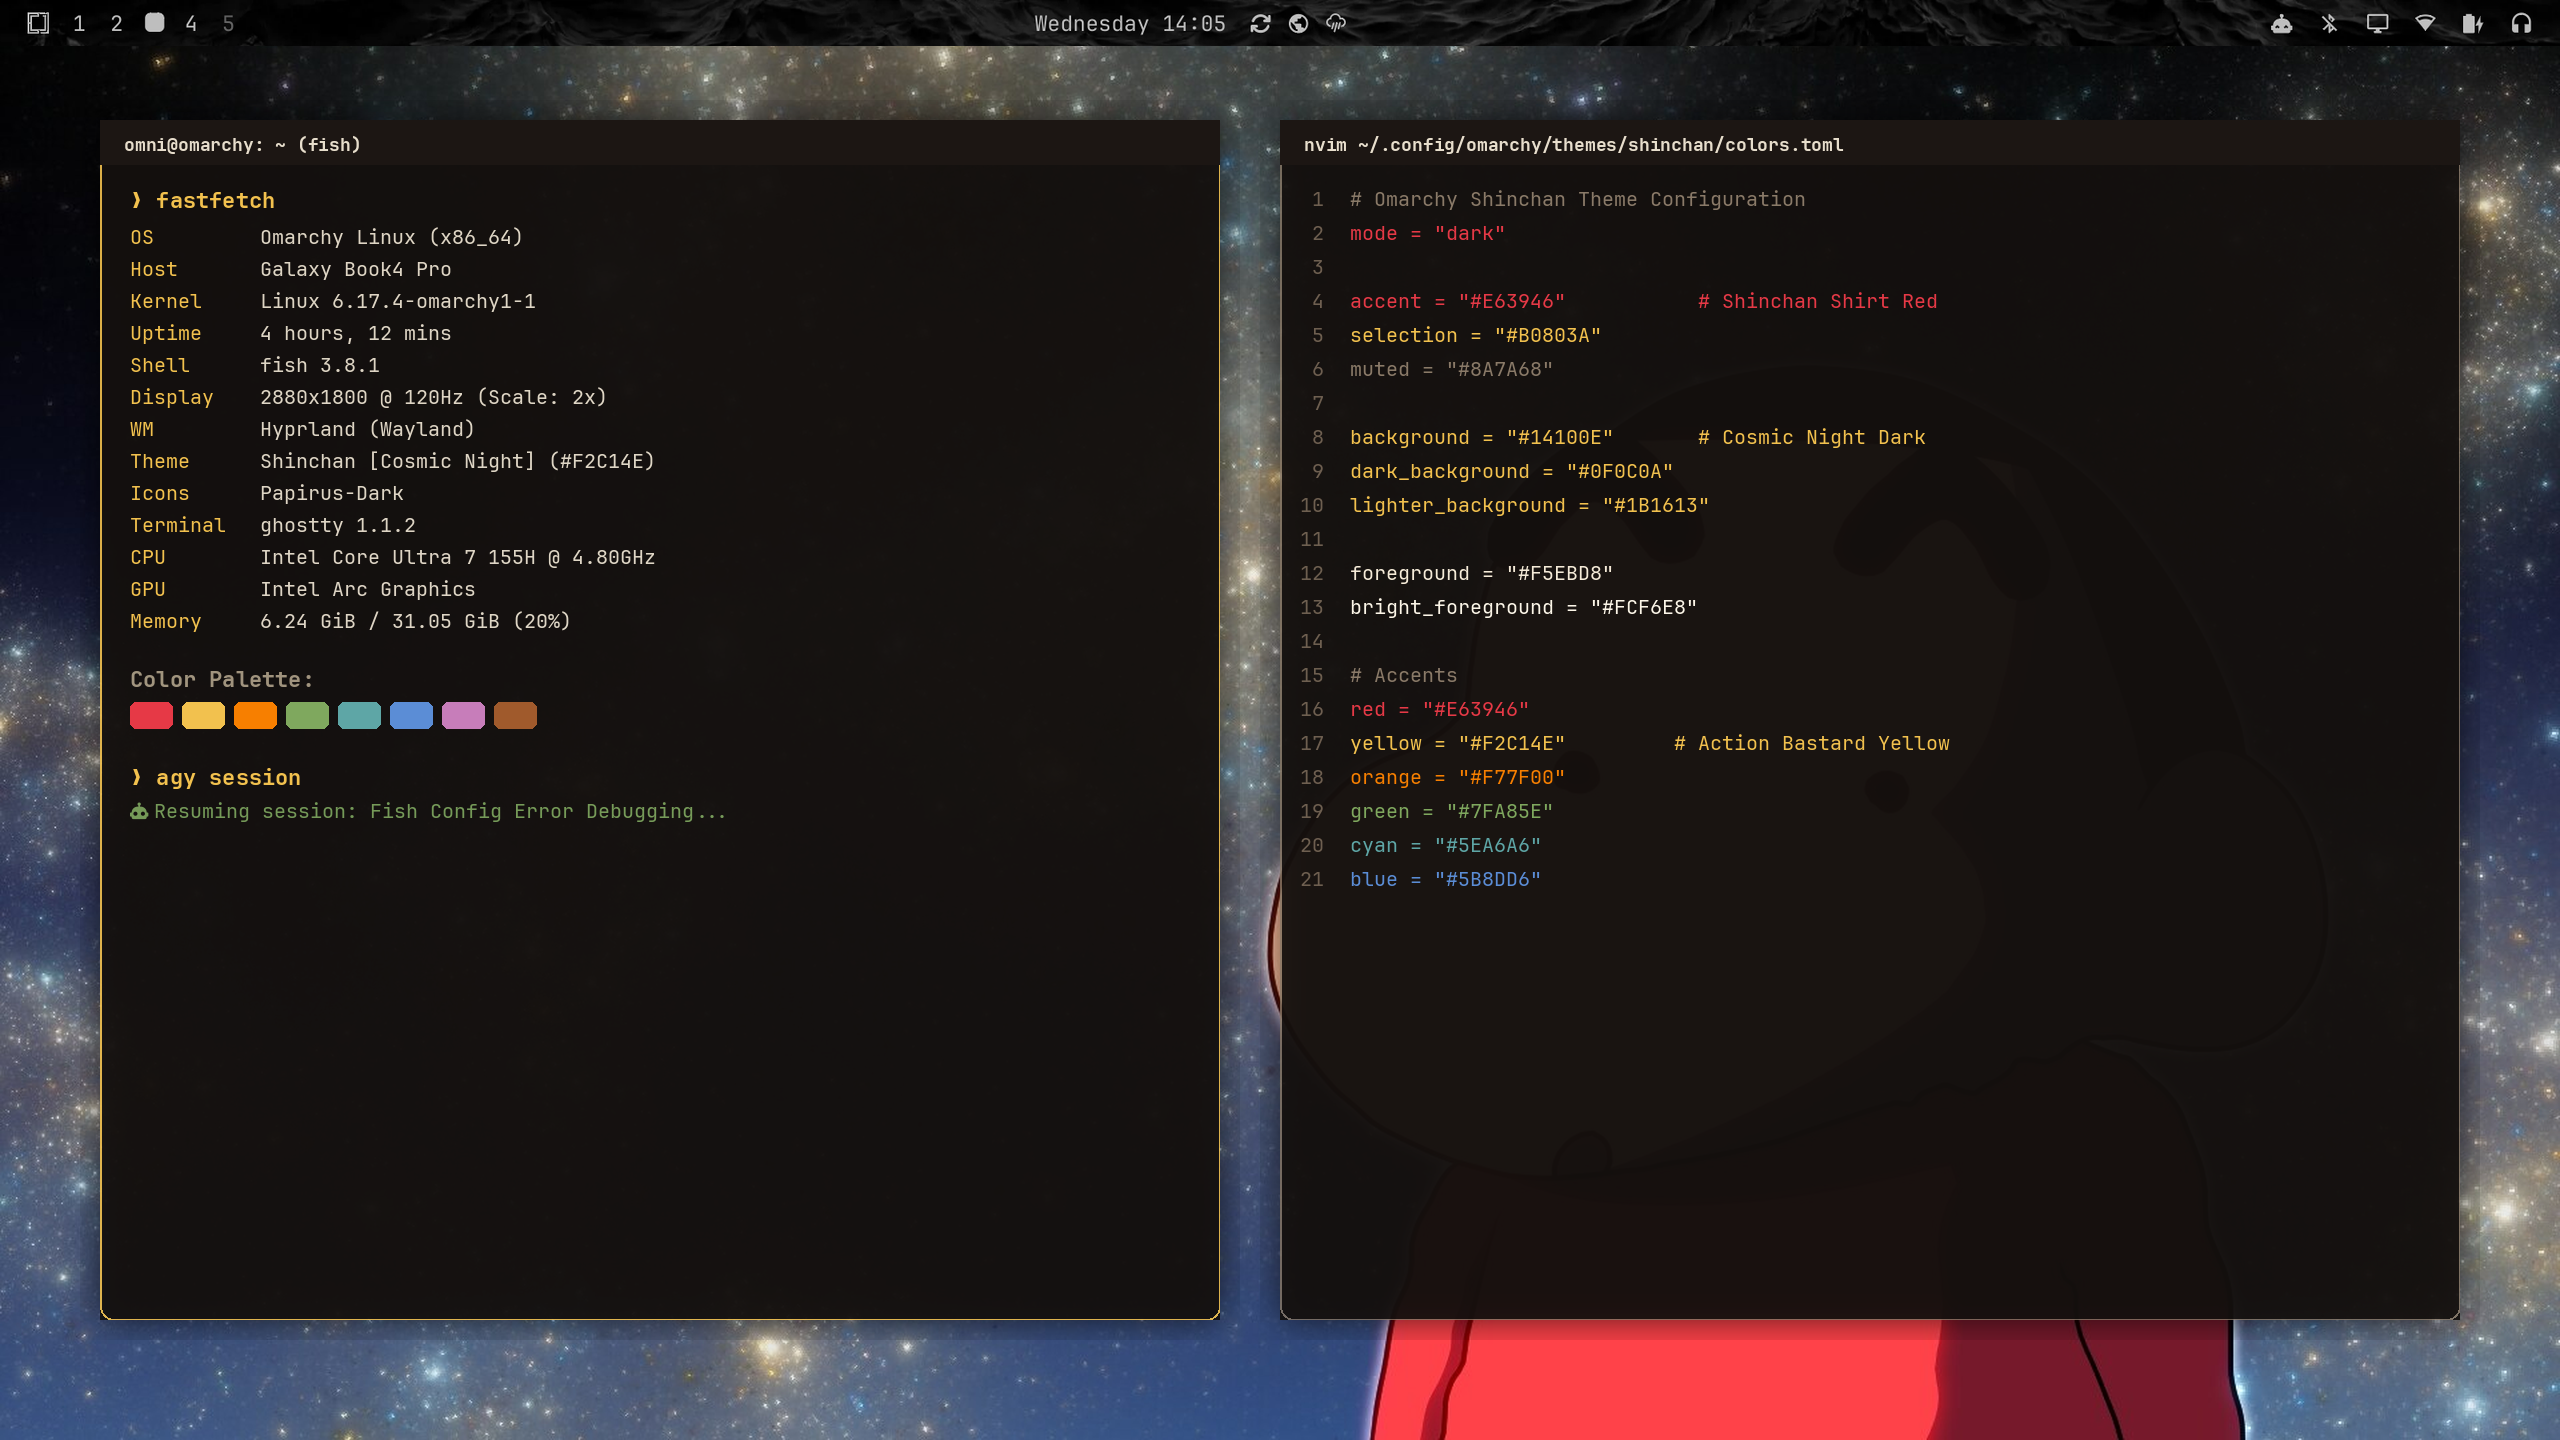
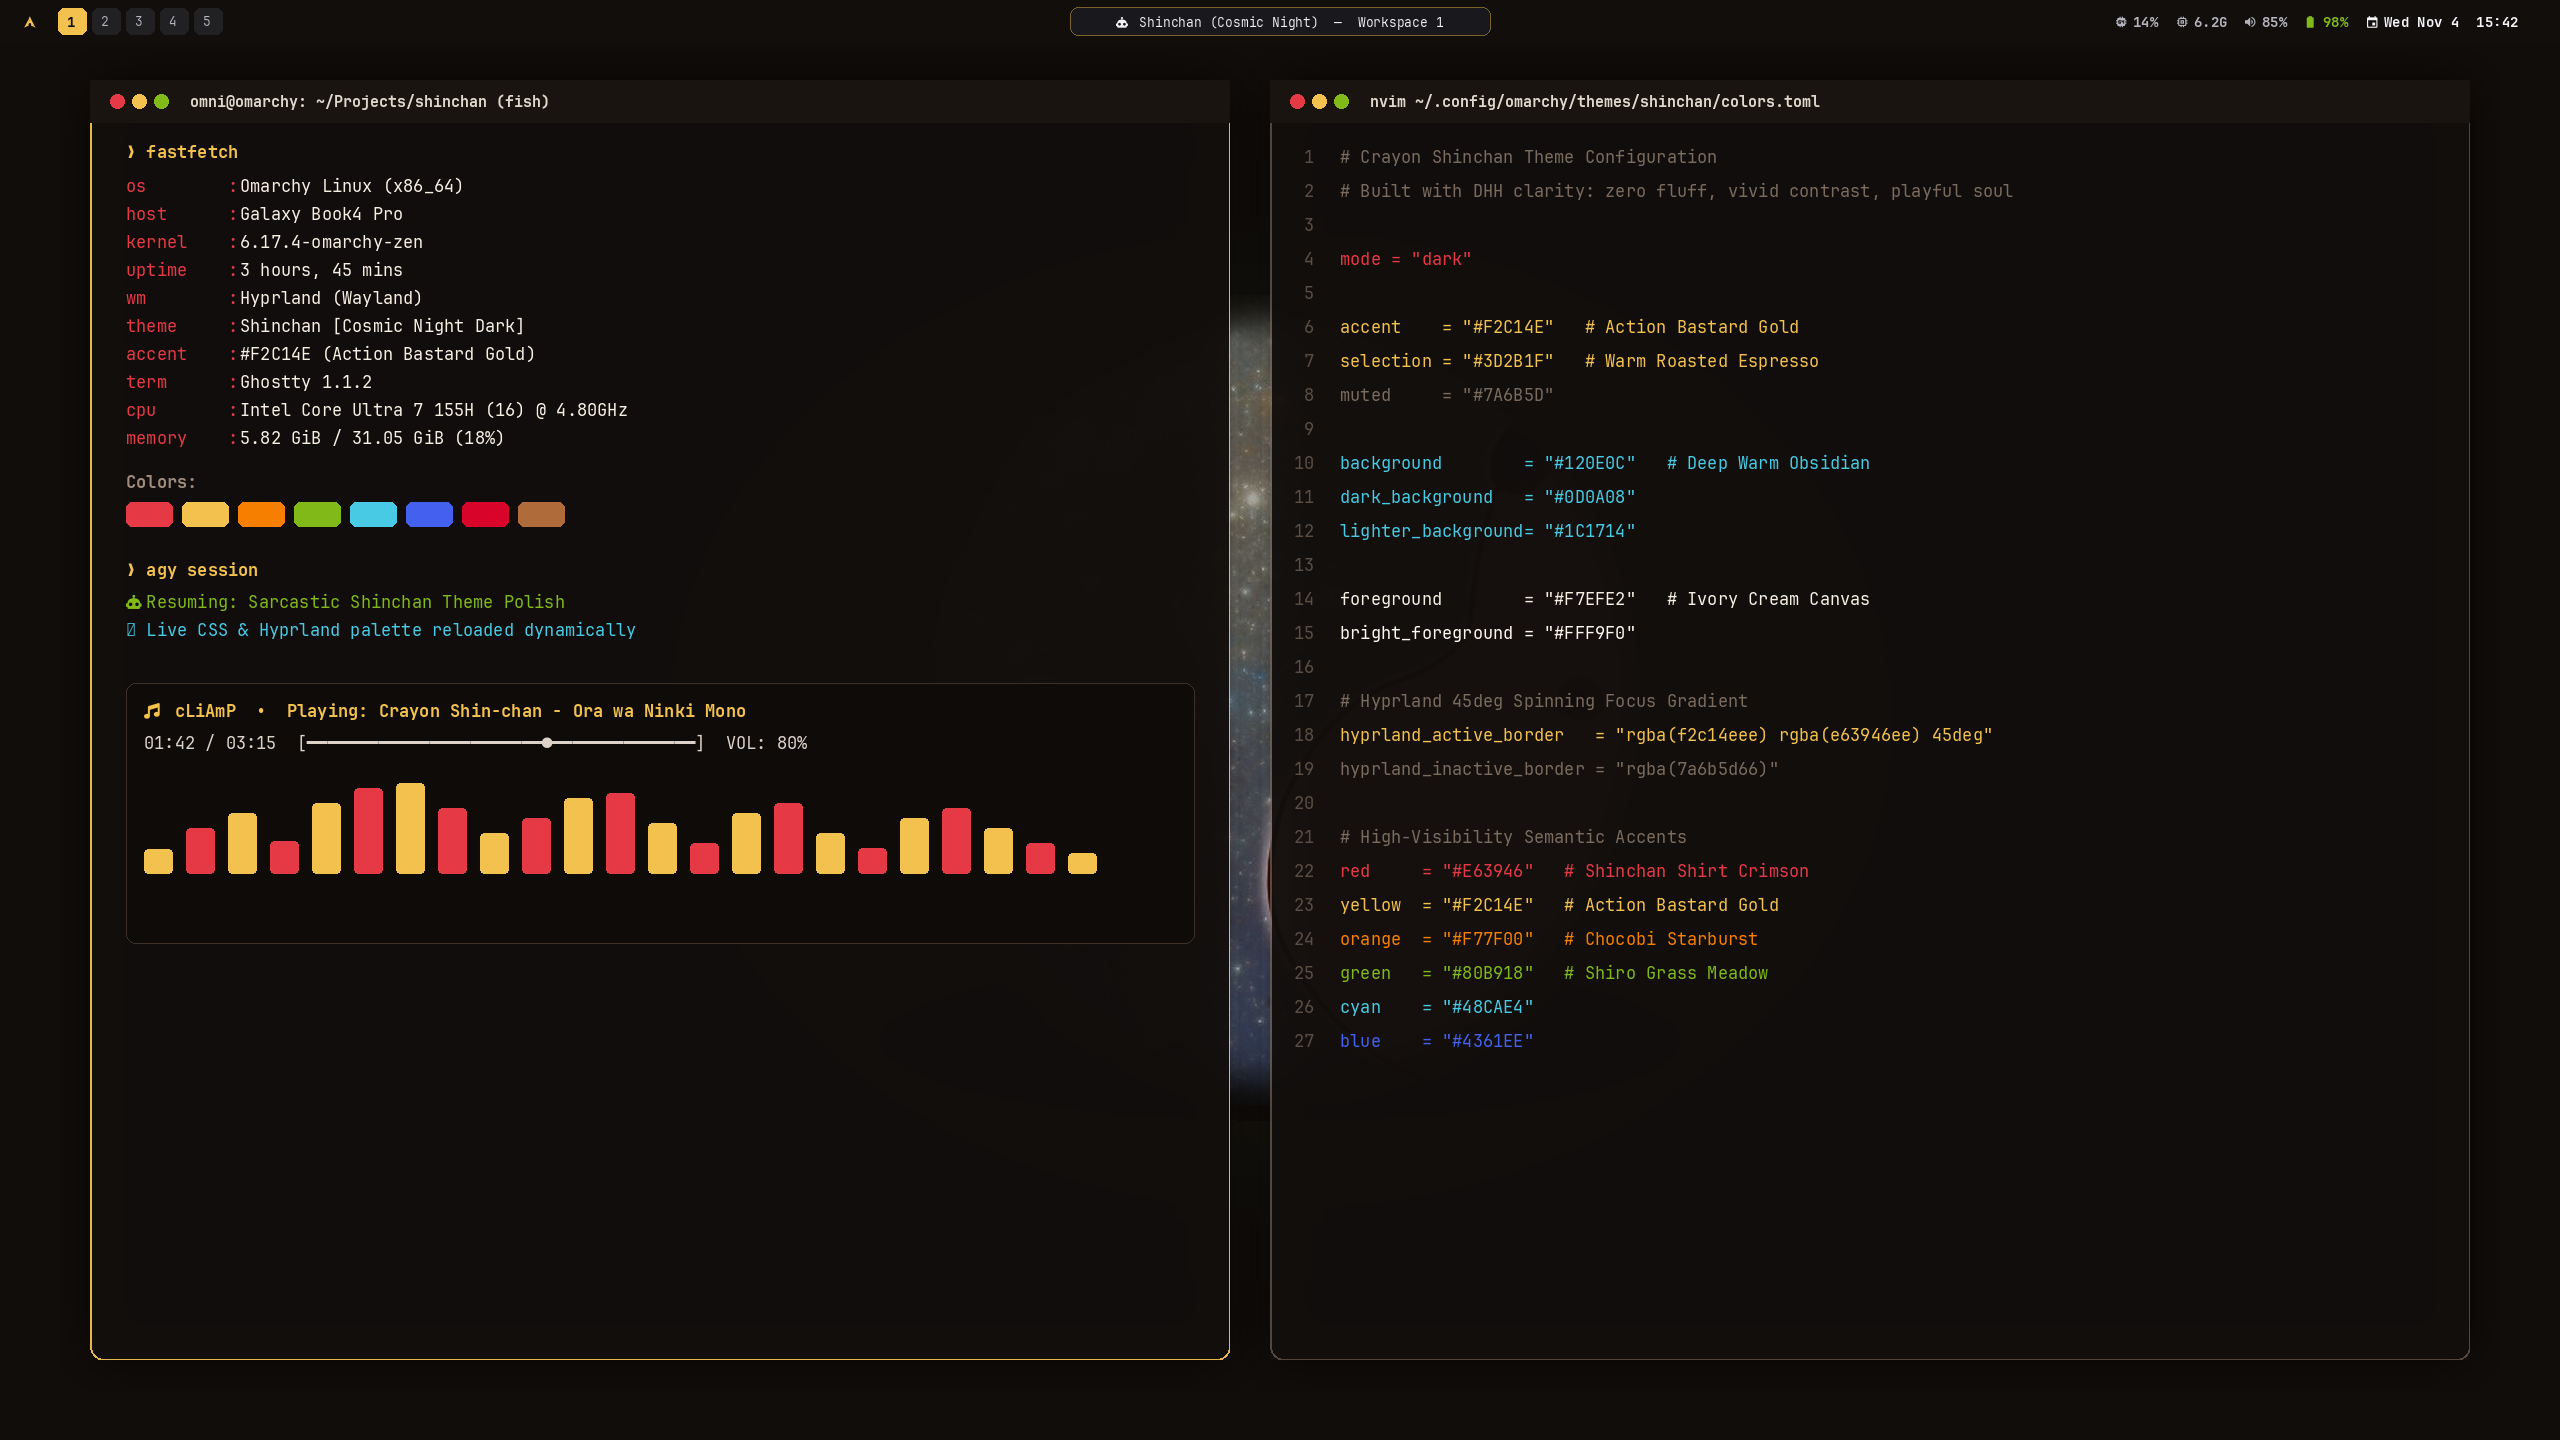
Refactor theme: clean background, enhanced palette, drop custom lockscreen, DHH polish

diff --git a/README.md b/README.md
@@ -1,16 +1,52 @@
-# Omarchy Shinchan Theme
+# 🍙 Omarchy Shinchan Theme
 
-A custom Shinchan-inspired theme for [Omarchy Linux](https://omarchy.org/).
+> *"To be playful is not childish — it is the highest form of mastery."*
 
-## Previews
+A bold, high-contrast dark theme for [Omarchy Linux](https://omarchy.org/) inspired by the irreverent, sarcastic spirit of Crayon Shin-chan. Designed with **DHH-style ruthless clarity**: zero unnecessary visual noise, a deep warm obsidian backdrop, and punchy semantic accents that make your terminal pop.
+
 ![Preview](preview.png)
-![Lock Screen](preview-unlock.png)
 
-## Installation
+---
 
-You can install this theme directly using the Omarchy CLI:
+## 🎨 The Aesthetic
+
+- **Deep Warm Canvas (`#120E0C`)**: A soothing, warm dark background engineered for prolonged coding sessions without eye strain.
+- **Action Bastard Gold (`#F2C14E`)**: The signature focus accent. Active window borders, prompt glyphs, and tabs glow with high-contrast energy.
+- **Shinchan Shirt Crimson (`#E63946`)**: High-priority alert and diagnostic highlights.
+- **Chocobi Palette**: Pure semantic terminal colors tailored for fast readability across Neovim, Ghostty, Kitty, and Btop.
+
+---
+
+## 📦 What's Included
+
+```text
+shinchan/
+├── backgrounds/         # High-resolution curated wallpapers
+│   ├── 0-cosmic-night.jpg  (Main: Sarcastic Shinchan with clean amber gradient)
+│   ├── 1-night-dog.jpg
+│   ├── 2-afternoon.jpg
+│   ├── 3-minimal.jpg
+│   └── 4-world.jpg
+├── colors.toml          # Master color palette
+├── hyprland.lua         # Window animations & border rules
+├── btop.theme           # System monitor skin
+├── chromium.theme       # Browser integration
+└── preview.png          # 2560x1440 HiDPI desktop showcase
+```
+
+---
+
+## 🚀 Installation
+
+Install directly with the Omarchy CLI:
 
 ```bash
 omarchy theme install https://github.com/oz456/omarchy-shinchan-theme
 omarchy theme set shinchan
 ```
+
+---
+
+## 📜 License
+
+MIT © [oz456](https://github.com/oz456)
